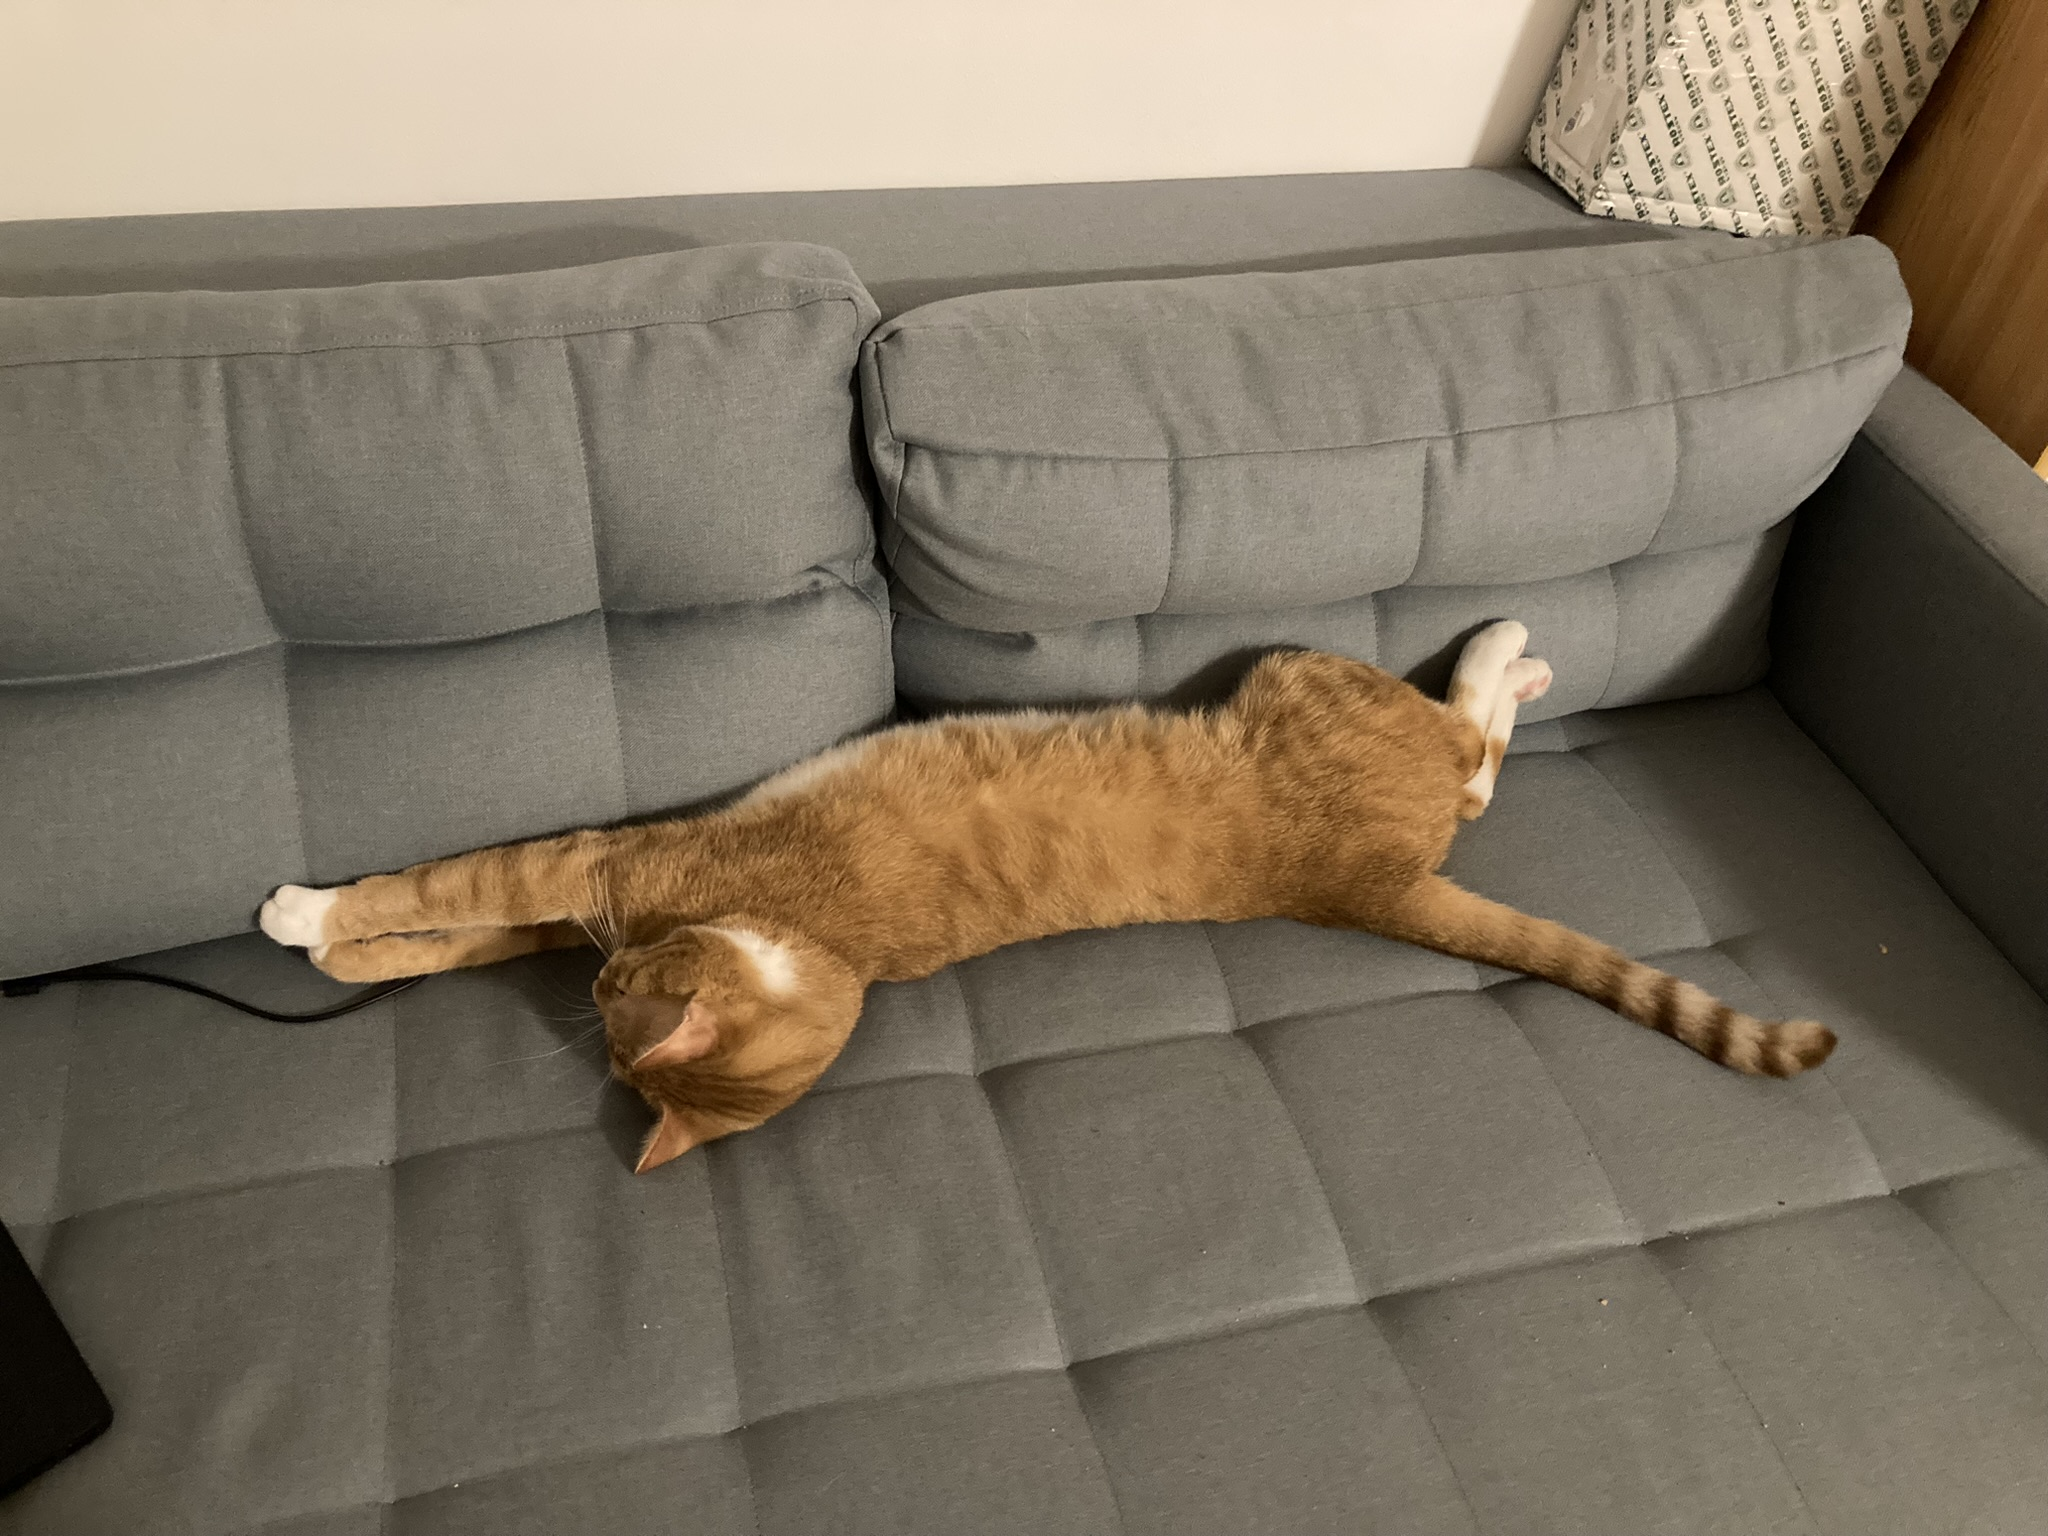
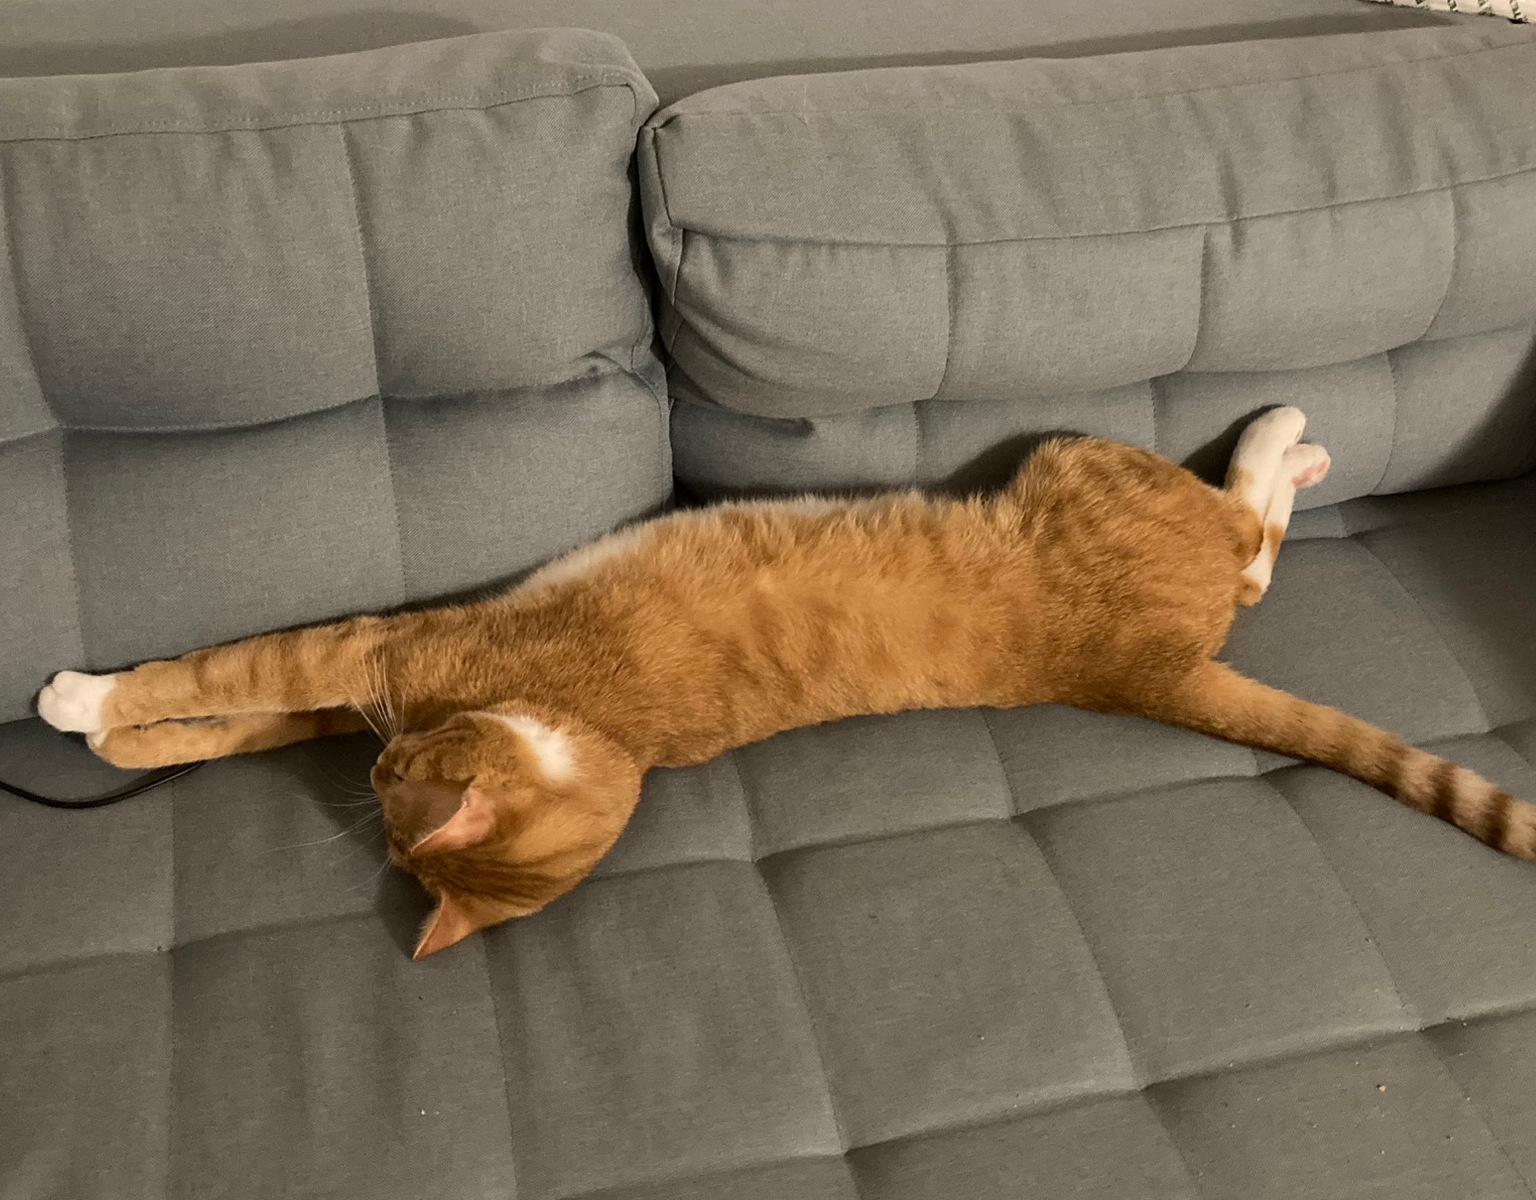
photos croped

diff --git a/index.html b/index.html
@@ -31,7 +31,7 @@
         <h2>O mně</h2>
         <p>Jmenuju se Klára Plívová a tyto stránky jsem zasvětila příběhu svého kocoura.</p>
         <h3>Kontakt</h3>
-        <p><img class="icon" src="photos/githubicon.png" alt="github icon">Github<br><img class="icon" src="photos/linkedinicon.png" alt="linkedin icon">Linkedin</p>
+        <p><img class="icon" src="photos/githubicon.png" alt="github icon"><a href="https://github.com/klaraplivova">Github</a><br><img class="icon" src="photos/linkedinicon.png" alt="linkedin icon"><a href="https://cz.linkedin.com/in/kl%C3%A1ra-pl%C3%ADvov%C3%A1-954a44261">Linkedin</a></p>
     </section>
 
     <section class="setkani" id="setkani">
@@ -52,13 +52,15 @@
 
     <section class="fotogalerie">
         <h2>Fotogalerie</h2>
-        <p>
-            <img src="photos/laptopmorning.JPEG" alt="">
-            <img src="photos/box.JPEG" alt="">
-            <img src="photos/cupboard.JPEG" alt="">
-            <img src="photos/grass.JPEG" alt="">
-            <img src="photos/drinking.JPEG"
-        </p>
+        <div class="fotopozadi">
+            <p>
+                <img src="photos/laptopmorning.JPEG" alt="">
+                <img src="photos/box.JPEG" alt="">
+                <img src="photos/cupboard.JPEG" alt="">
+                <img src="photos/grass.JPEG" alt="">
+                <img src="photos/drinking.JPEG"
+            </p>
+        </div>
     </section>
 
     <section class="cas">
@@ -76,7 +78,7 @@
                 </tr>
                 <tr>
                     <td>3. rok</td>
-                    <td><img src="photos/selfie.JPG"</td>
+                    <td><img src="photos/sofa.JPEG"</td>
                 </tr>
         </table>
     </section>

diff --git a/style.css b/style.css
@@ -6,7 +6,7 @@ body{
     margin: 0;
     max-width: 50cm;
     font-family: Helvetica, Arial, sans-serif;
-    font-size: 18px;
+    font-size: 20px;
     line-height: 1.3;
     padding: 0;
     background-color: #f9f6f1
@@ -35,7 +35,7 @@ body{
 .menu a:hover {
     background-color: #3F3931;
     color: white;
-    border-radius: 20px;
+    border-radius: 5px;
 }
 
 h1,
@@ -54,6 +54,14 @@ h1 {
     padding: 200px 15% 0 20%;
     font-size: 60px;
     color: #3F3931;    
+}
+
+h2 {
+    font-size:30px;
+}
+
+h3 {
+   font-size: 20px;    
 }
 
 .hlava {
@@ -108,6 +116,7 @@ h1 {
     width: 200px;
     border-radius: 30%;
     margin-left: 20px;
+    border:#efc9be solid 2px;
 }
 
 .domov {
@@ -122,6 +131,13 @@ h1 {
 
 .fotogalerie img {
     width:19%;
+    padding:10px;
+}
+
+.fotopozadi {
+    background-color: #2e324d;
+    padding: 20px 50px;
+    border-radius: 10px;
 }
 .cas {
     background-color: #D7E1CE;
@@ -130,6 +146,17 @@ h1 {
 
 .cas img {
     width: 300px;
+    
+}
+
+table {
+    
+}
+
+th,
+td {
+    border-bottom: #2e324d 2px dashed;
+    padding: 20px;
 }
 
 .paticka {
